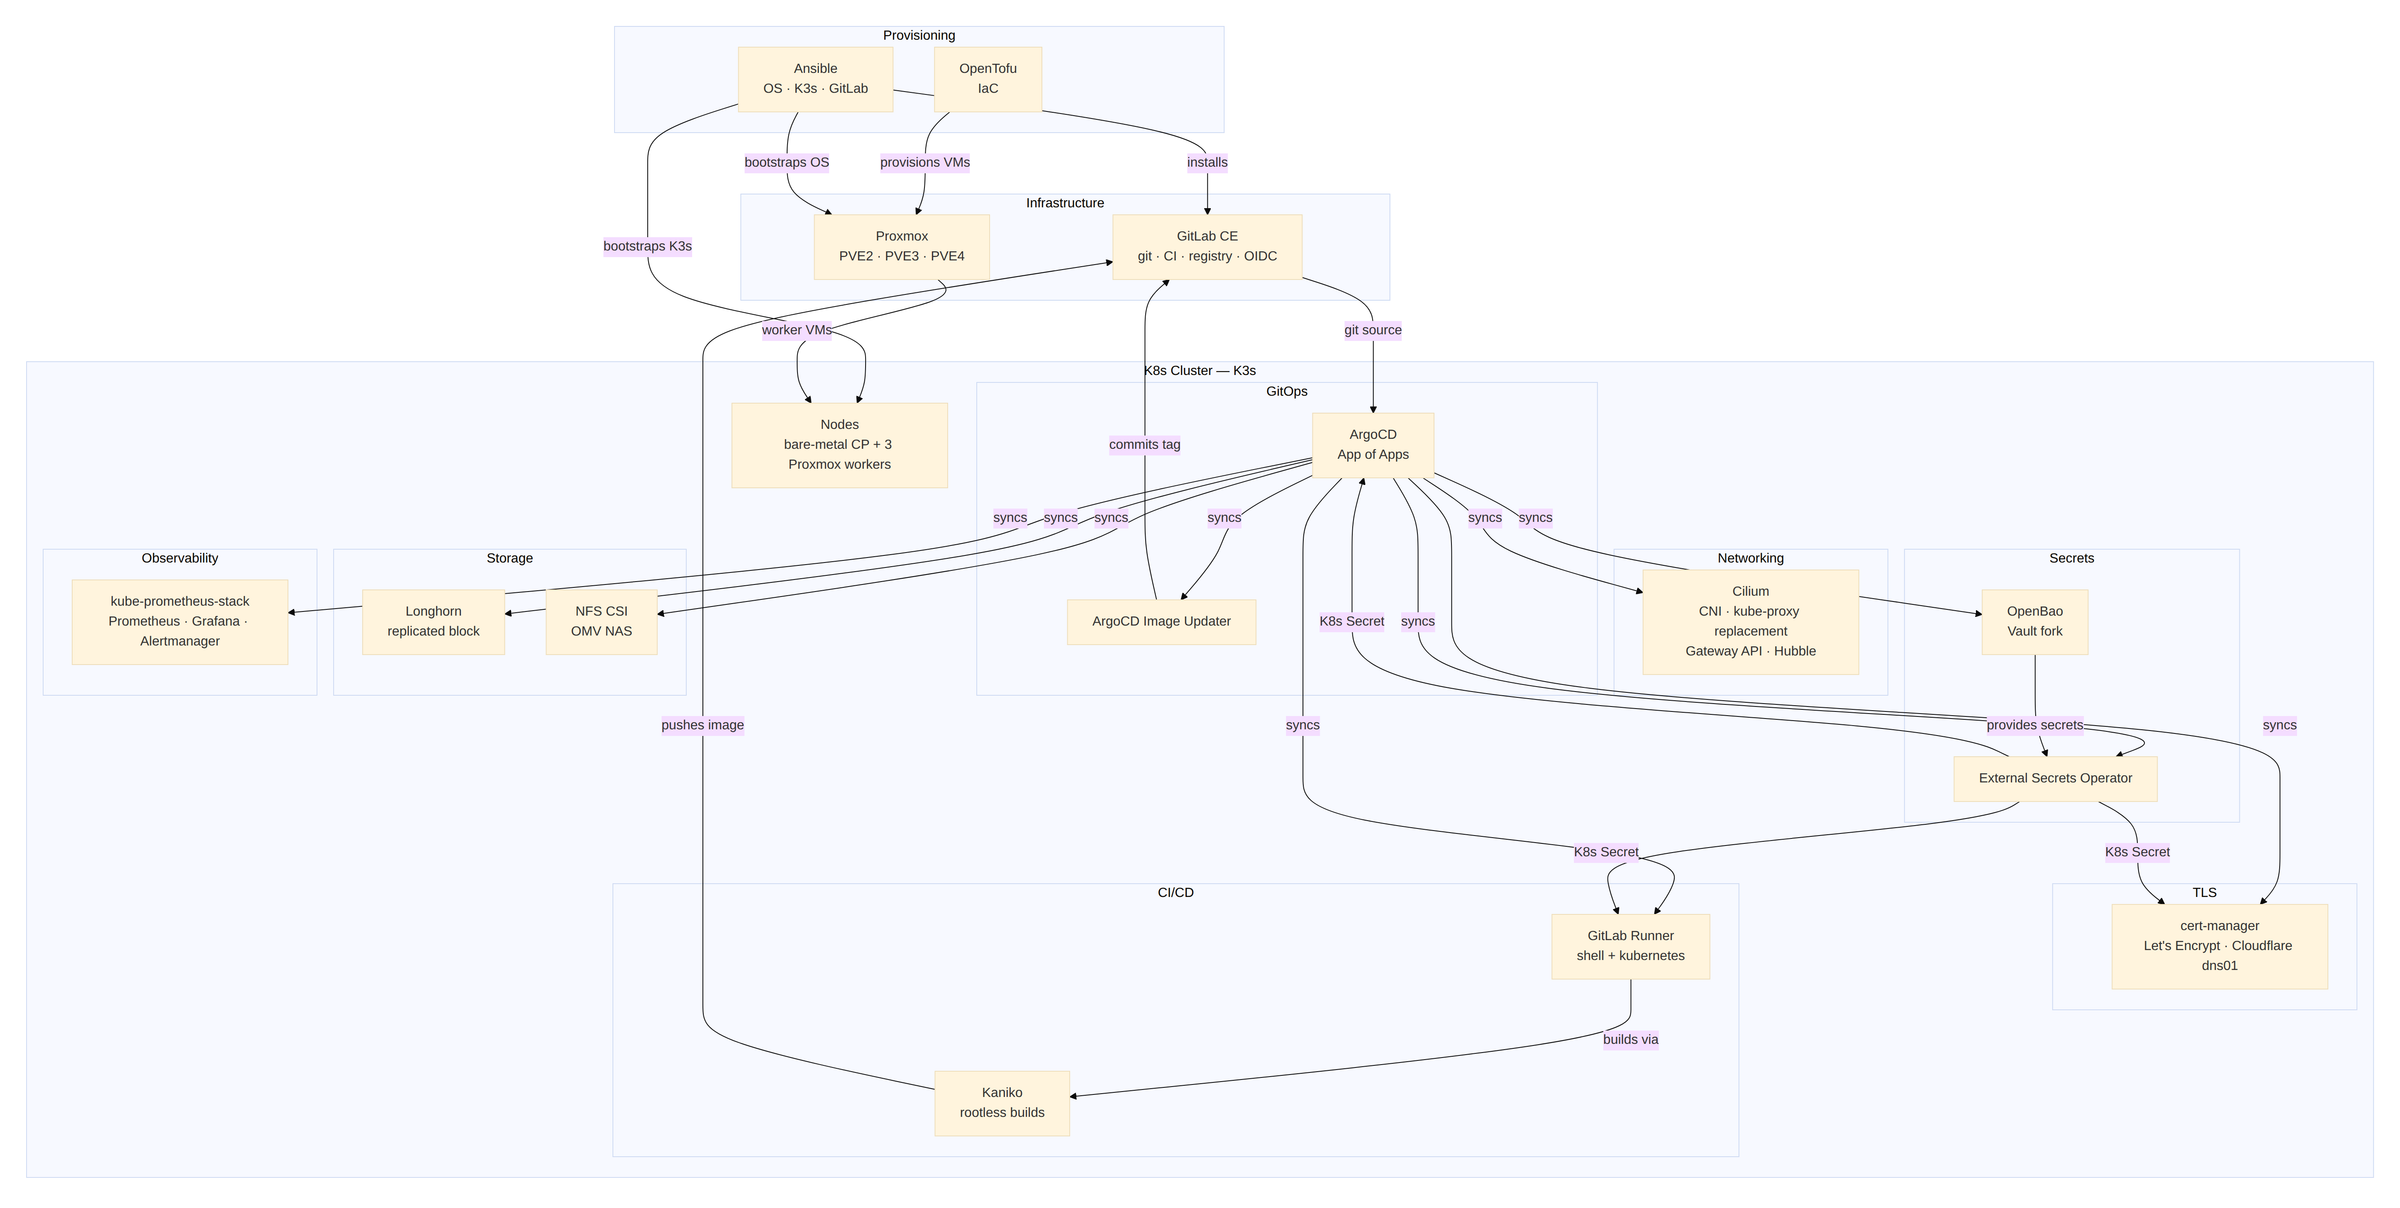
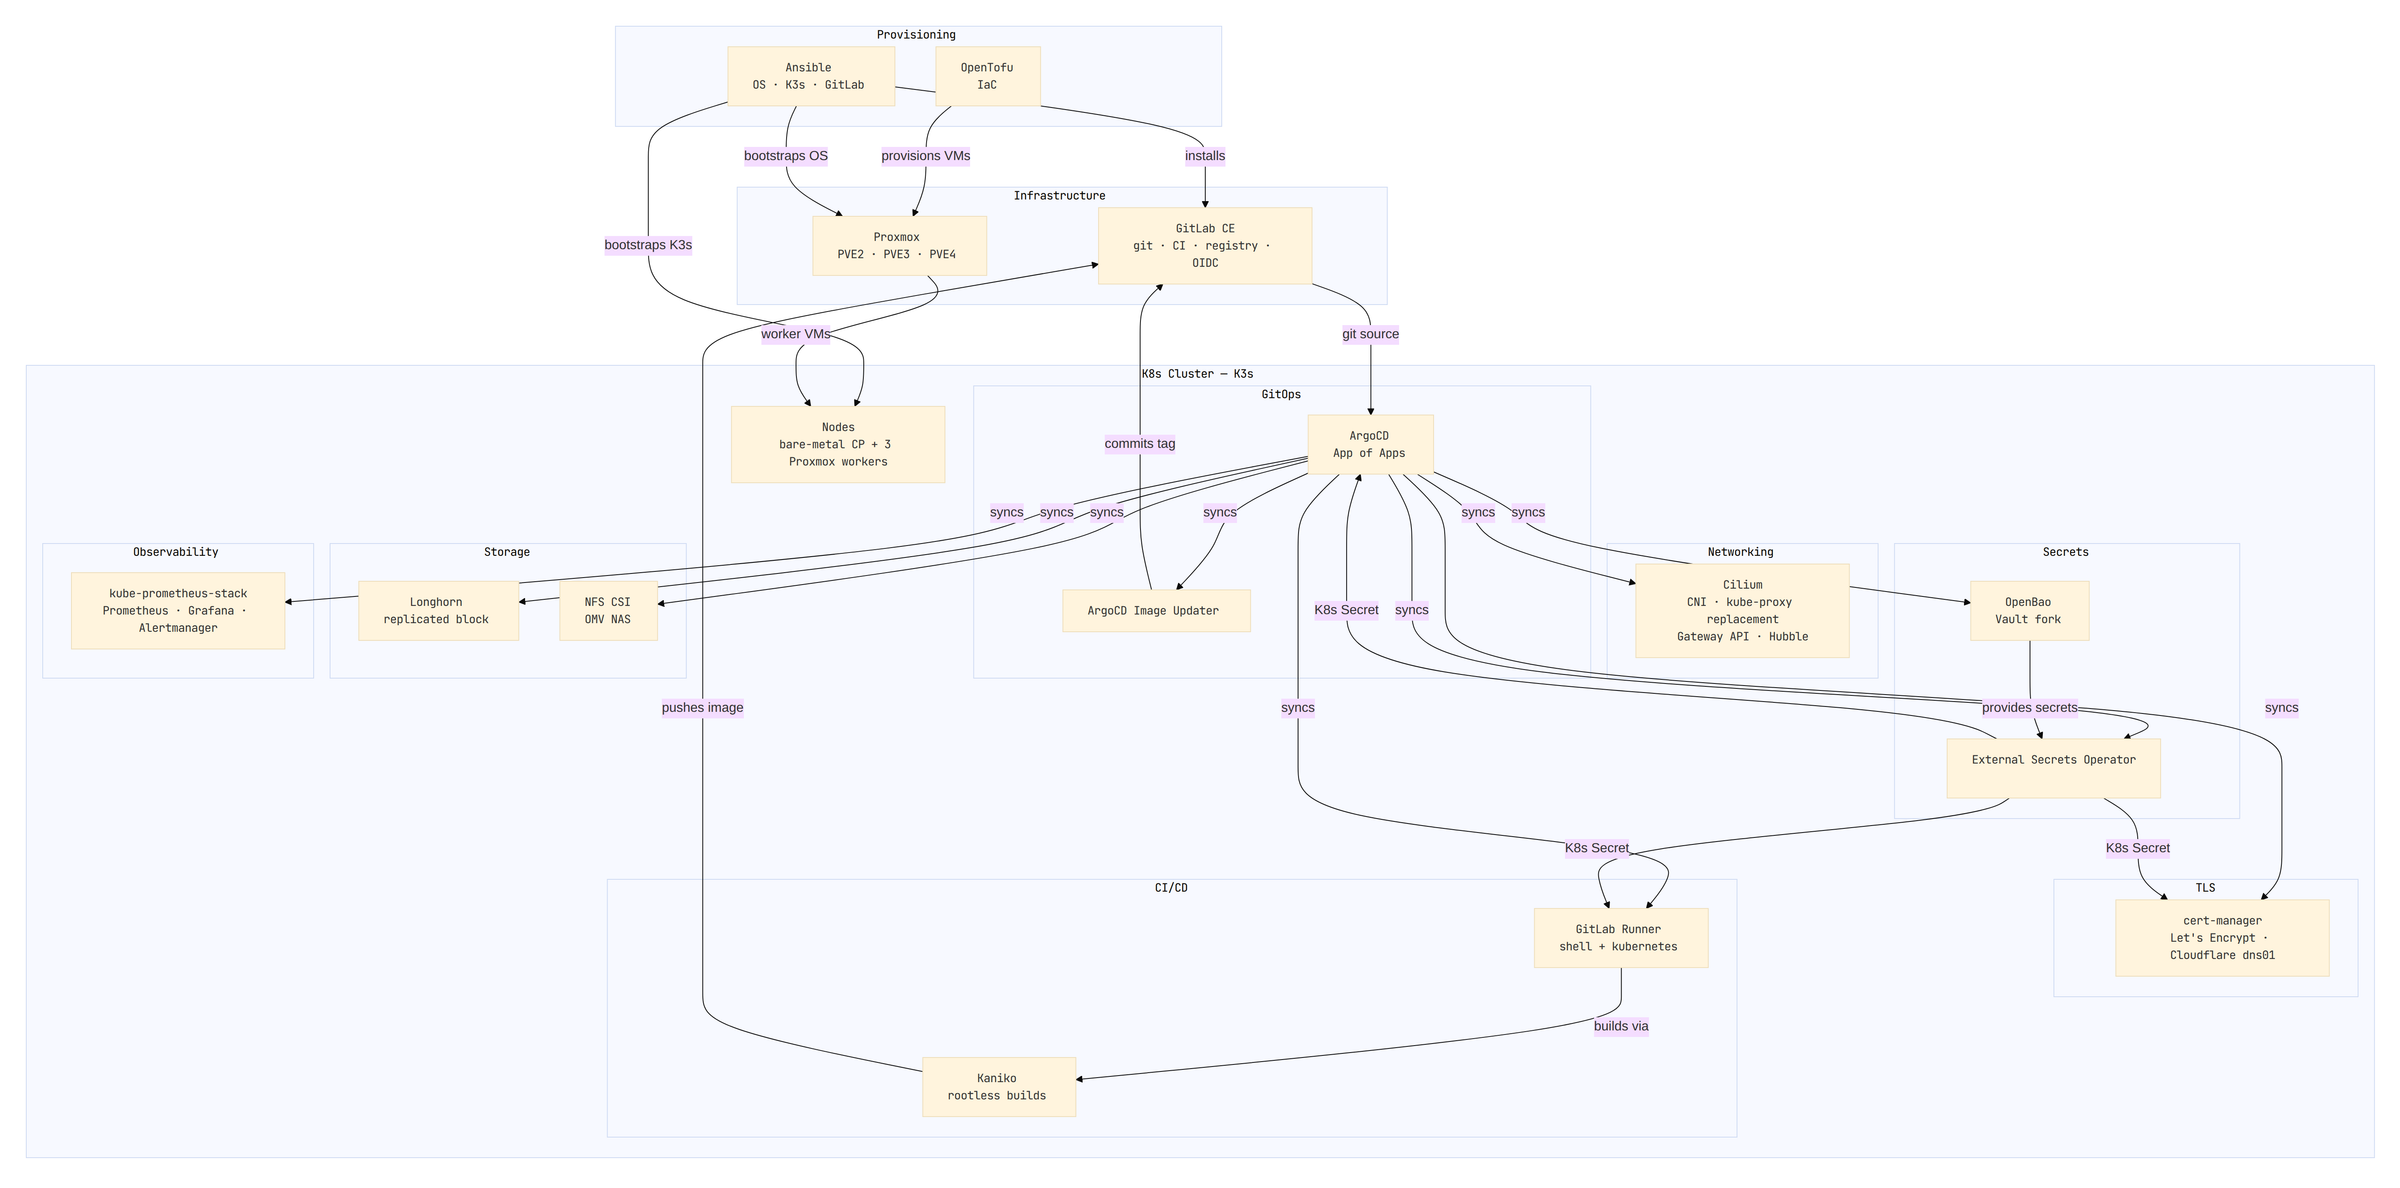
style: force mono labels in mermaid SVG via !important; regenerate card image to match

diff --git a/assets/css/jekyll-theme-chirpy.scss b/assets/css/jekyll-theme-chirpy.scss
@@ -271,14 +271,21 @@ body .mermaid-lightbox-close:hover {
   color: #fff;
 }
 
-/* Mermaid labels: match the site's mono headings instead of the library default */
+/* Mermaid labels: match the site's mono headings instead of the library default.
+   Mermaid injects its own <style> into the SVG, so override with !important. */
 
-.mermaid-wrapper .mermaid,
-.mermaid-lightbox-diagram,
-.mermaid-wrapper .mermaid svg,
-.mermaid-lightbox-diagram svg {
-  font-family: 'JetBrains Mono', 'SFMono-Regular', Consolas, 'Liberation Mono', Menlo, monospace;
-  font-size: 14px;
+.mermaid-wrapper .mermaid svg text,
+.mermaid-wrapper .mermaid svg tspan,
+.mermaid-wrapper .mermaid svg p,
+.mermaid-wrapper .mermaid svg span,
+.mermaid-wrapper .mermaid svg .nodeLabel,
+.mermaid-lightbox-diagram svg text,
+.mermaid-lightbox-diagram svg tspan,
+.mermaid-lightbox-diagram svg p,
+.mermaid-lightbox-diagram svg span,
+.mermaid-lightbox-diagram svg .nodeLabel {
+  font-family: 'JetBrains Mono', 'SFMono-Regular', Consolas, 'Liberation Mono', Menlo, monospace !important;
+  font-size: 14px !important;
 }
 
 /* Readability: bump body text from 16.48px to 18px for the serif face */
